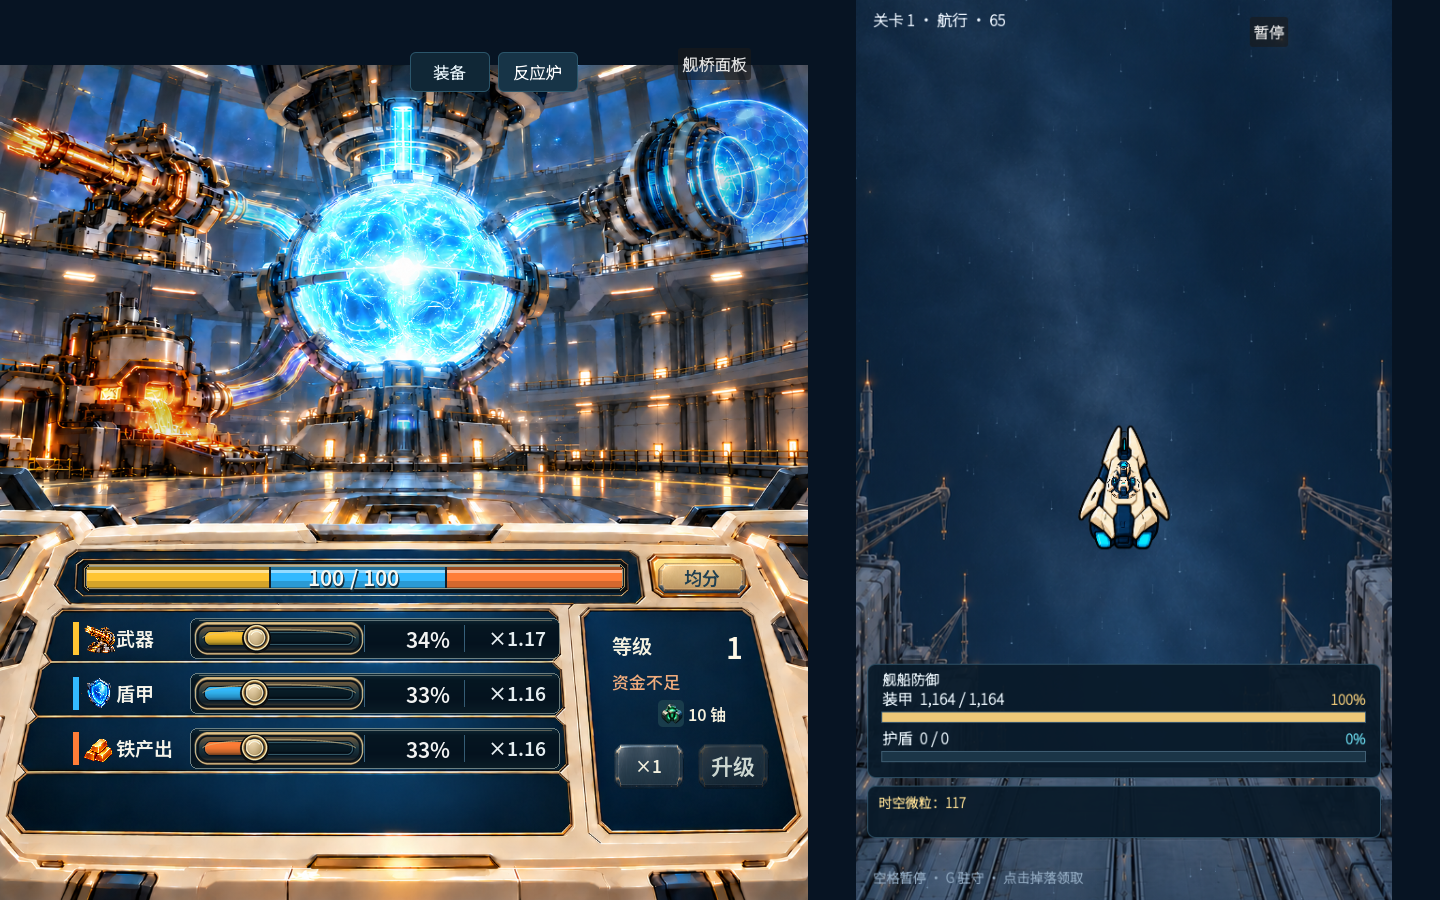
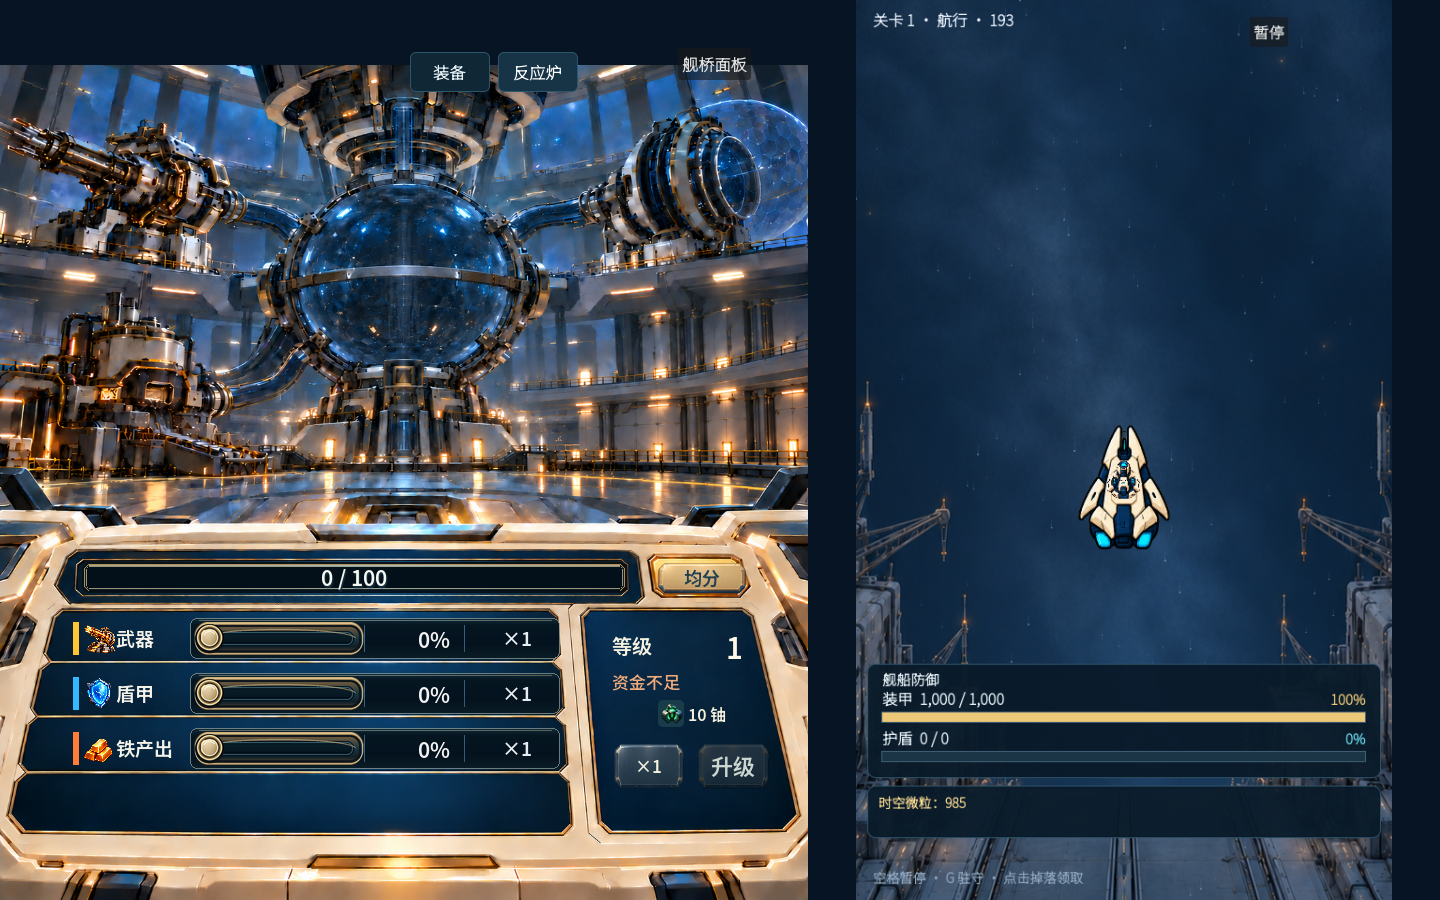
Correct locked reactor true-zero evidence

diff --git a/space-battleship/docs/verification/reactor-centered-godot/evidence/b01-redesign/README.md b/space-battleship/docs/verification/reactor-centered-godot/evidence/b01-redesign/README.md
@@ -35,7 +35,7 @@
 
 Godot `4.7.2.stable.official.ed1daf0bf`、native、Xorg `:99`、Mesa llvmpipe、正式 `main.tscn`、1440×900、1×：同版[四路带载整屏](active-1440x900.png)、[×10 报价](ten-1440x900.png)、[MAX 报价](max-1440x900.png)、[真零整屏](true-zero-1440x900.png)已按原尺寸目视核对。右侧等级在顶、费用在中、循环数量与独立升级键并排等高；均分键缩进实体金属框。等级 1 的 ×10 报价为 550 铀，MAX 当时可购 11 级、费用 752 铀，数值取自[同版报价日志](quantity-runtime.txt)，战场收入使 MAX 随余额重算；循环键仅选报价，升级键才交易。对应[报价驱动](quantity-driver.gd.txt)。原批准[B01 主体图](approved-b01.png)未变。
 
-[锁定零态](locked-zero-1440x900.png)、[锁定工作态](locked-active-1440x900.png)及[相位 4.65 诊断帧](locked-active-phase4-1440x900.png)来自凝聚未开放的公开模型。原生第四图标、行、滑杆、倍率和总条紫段不显示；三模块专用底图移除了整台晶体设备、地面紫晶、完整下右管及接口，环形舱壁、栏杆与金属地面连续，第四静态槽无身份。原数学遮板已删除。[锁定驱动](locked-driver.gd.txt)与[模型日志](locked-runtime.txt)记录 `enabled=[weapons, defence, smelting]`、凝聚 shader 负载 0、其余三路 34%／33%／33%；相位诊断通过向现有视觉时钟输入 4 秒受控增量检查动态贴图，没有把它称作正常墙钟录像。开放四模组底图保持原样。
+[锁定零态](locked-zero-1440x900.png)、[锁定工作态](locked-active-1440x900.png)及[相位诊断帧](locked-active-phase4-1440x900.png)来自凝聚未开放的公开模型。原生第四图标、行、滑杆、倍率和总条紫段不显示；三模块专用底图移除了整台晶体设备、地面紫晶、完整下右管及接口，环形舱壁、栏杆与金属地面连续，第四静态槽无身份。原数学遮板已删除。[锁定驱动](locked-driver.gd.txt)与[模型日志](locked-runtime.txt)先记录 `enabled=[weapons, defence, smelting]` 的满配 34%／33%／33%，凝聚 shader 负载始终 0；相位诊断向现有视觉时钟输入 4 秒受控增量检查动态贴图，不称为正常墙钟录像。之后驱动通过 Owner 公开 `apply_allocation_plan` 将三路各设为 0，读回总 `allocated=0`、`load=0`、三行 `manual/ratio/load=0`、stage `core_load=0`，待原生绘制完成再取零态图。先前误存的 `locked-zero` 满配画面已撤换；当前文件由驱动的 `confirmed-zero` 帧固定复制，显示 `0 / 100`、三行 `0%` 和暗核。开放四模组底图保持原样。
 
 [交互驱动](interaction-driver.gd.txt)及[实机日志](interaction-runtime.txt)覆盖此次布局后的原生鼠标操作。均分后武器从 25% 拖到 10%，Owner 接纳，总分配变为 85/100；再次拖到超额时返回 `ReactorPlanOverCapacity`，控件回到已接纳的 10%，见[接纳整屏](mouse-accepted-1440x900.png)和[拒绝整屏](mouse-rejected-1440x900.png)。×10 经独立升级键以 550 铀从等级 1 到 11，钱包 1000→450；之后经公开 Economy 入账 1000 铀，MAX 依实时预算报价并以 1336 铀购买 4 级，等级 11→15，钱包 1450→114。两笔成交的提示分别为“已升级 10 级”和“已升级 4 级”，见[×10 成交](ten-purchased-1440x900.png)、[MAX 成交](max-purchased-1440x900.png)。低正负载通过 Owner 公开入口设为 1/5766、`<1%`，见[低正负载](low-1440x900.png)；全部回 0 时，真零整屏显示 `0%` 且工作光关闭。这里的受控入账和开放条件用于覆盖状态，不改变 Owner 或玩法规则；正常战场有实时收益，不能把截图报价当固定初始预算。
 
